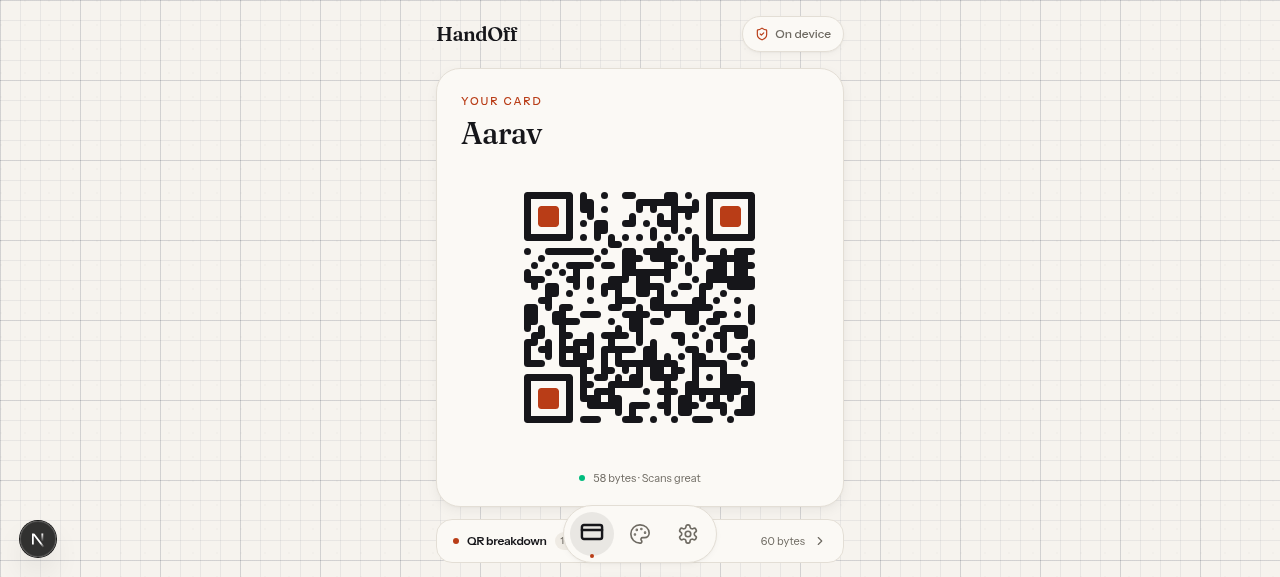
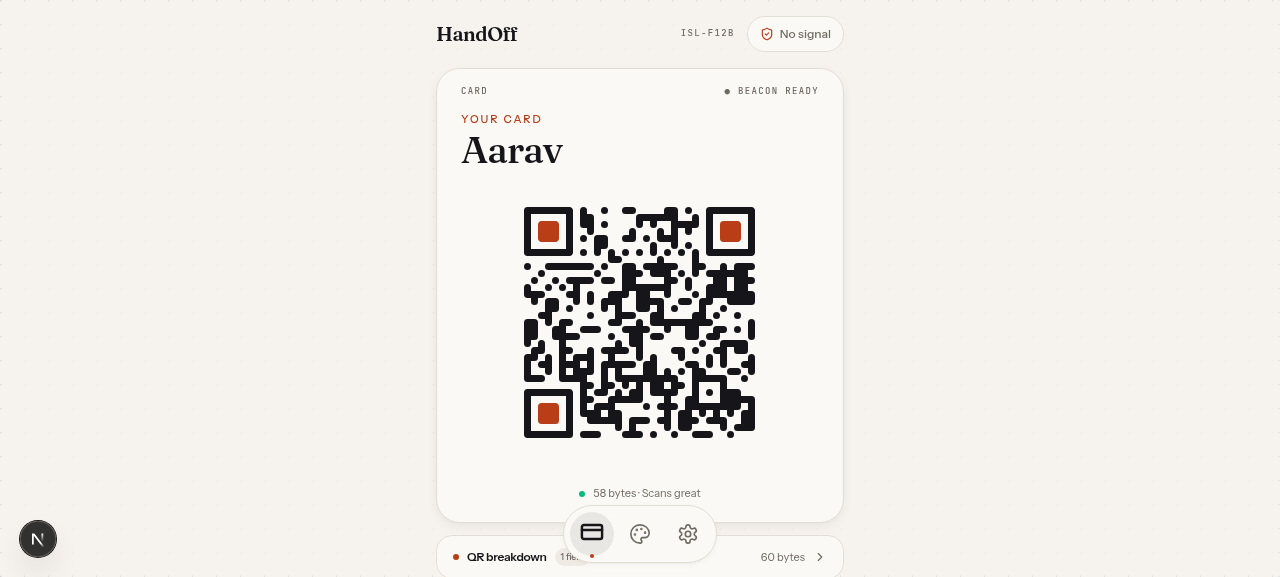
ca415e9d-9c57-4e68-a777-8a0a77867d95

diff --git a/src/components/handoff/screens/home.tsx b/src/components/handoff/screens/home.tsx
@@ -75,16 +75,20 @@ export function HomeScreen() {
 
   return (
     <div className="mx-auto max-w-md px-5 pt-safe">
-      {/* top bar */}
+      {/* top bar — chart header with island ID */}
       <div className="flex items-center justify-between py-4">
         <Wordmark className="text-xl" />
-        <button
-          onClick={() => navigate("privacy")}
-          className="glass-pill no-tap flex h-9 items-center gap-1.5 rounded-full border border-white/10 px-3 text-[12px] font-medium text-muted-foreground transition-colors hover:text-foreground"
-        >
-          <ShieldCheck className="h-3.5 w-3.5 text-clay" />
-          On device
-        </button>
+        <div className="flex items-center gap-3">
+          {/* Island ID — derived from card id hash, decorative */}
+          <span className="chart-label">ISL-{card.id.slice(0, 4).toUpperCase()}</span>
+          <button
+            onClick={() => navigate("privacy")}
+            className="no-tap flex h-9 items-center gap-1.5 rounded-full border border-border bg-card px-3 text-[12px] font-medium text-muted-foreground transition-colors hover:text-foreground"
+          >
+            <ShieldCheck className="h-3.5 w-3.5 text-clay" />
+            No signal
+          </button>
+        </div>
       </div>
 
       {/* QR changed banner */}
@@ -109,11 +113,16 @@ export function HomeScreen() {
         </div>
       )}
 
-      {/* hero card — solid-card (no backdrop-filter, protects the QR canvas) */}
+      {/* hero card — the Card island, solid, on the chart */}
       <Reveal delay={0.05}>
       <div className="solid-card relative overflow-hidden rounded-3xl">
-        {/* name plate */}
-        <div className="flex items-start justify-between gap-4 px-6 pt-6">
+        {/* chart label at top of island */}
+        <div className="flex items-center justify-between px-6 pt-4">
+          <span className="chart-label">CARD</span>
+          <span className="chart-label text-clay">● BEACON READY</span>
+        </div>
+        {/* name plate — oversized, bleeding toward the edge */}
+        <div className="flex items-start justify-between gap-4 px-6 pt-3">
           <div className="min-w-0 flex-1">
             {photo ? (
               <img
@@ -125,11 +134,12 @@ export function HomeScreen() {
             <p className="text-[11px] font-medium uppercase tracking-[0.18em] text-clay">
               {card.company || "Your card"}
             </p>
-            <h1 className="mt-1 font-display text-[1.9rem] font-medium leading-tight tracking-tight">
+            {/* Oversized name — bleeds off-screen on small phones, per Archipelago spec */}
+            <h1 className="mt-1 font-display text-[2.4rem] font-medium leading-[0.95] tracking-tight">
               {fullName || "Your name"}
             </h1>
             {card.jobTitle && (
-              <p className="mt-0.5 text-[14px] text-muted-foreground">
+              <p className="mt-1 text-[14px] text-muted-foreground">
                 {card.jobTitle}
               </p>
             )}

diff --git a/src/components/handoff/screens/onboarding.tsx b/src/components/handoff/screens/onboarding.tsx
@@ -85,7 +85,7 @@ export function Onboarding() {
   if (step === "welcome") {
     return (
       <div className="flex min-h-[100dvh] flex-col items-center px-6 pt-[max(env(safe-area-inset-top,0px),60px)] pb-10">
-        {/* Logo + name + tagline — centered like the Knot reference */}
+        {/* ARCHIPELAGO arrival: logo + headline + sub */}
         <motion.div
           initial={{ opacity: 0, y: 8 }}
           animate={{ opacity: 1, y: 0 }}
@@ -93,30 +93,19 @@ export function Onboarding() {
           className="flex flex-col items-center gap-3"
         >
           <HandOffMark className="h-16 w-16" />
-          <h1 className="font-display text-[2.2rem] font-semibold tracking-tight">
-            {BRAND.name}
+          <h1 className="mt-2 font-display text-[2rem] font-semibold leading-tight tracking-tight text-center">
+            One card. One scan.
+            <br />
+            Nothing leaves your phone.
           </h1>
           <p className="text-[14px] text-muted-foreground">
-            {BRAND.tagline}
+            No account. No signal needed.
           </p>
-        </motion.div>
-
-        {/* Privacy capsule — like the Knot reference: dark pill with shield icon */}
-        <motion.div
-          initial={{ opacity: 0, y: 8 }}
-          animate={{ opacity: 1, y: 0 }}
-          transition={{ duration: 0.5, delay: 0.2, ease: [0.22, 1, 0.36, 1] }}
-          className="mt-12 flex items-center gap-2.5 rounded-full border border-border bg-card px-4 py-2.5"
-        >
-          <ShieldCheck className="h-4 w-4 text-emerald-500" />
-          <span className="text-[13px] font-medium text-foreground">
-            No accounts. No servers. Your card never leaves your phone.
-          </span>
         </motion.div>
 
         <div className="flex-1" />
 
-        {/* CTA button — accent color, bottom right aligned like Knot */}
+        {/* CTA — vermilion beacon button */}
         <motion.div
           initial={{ opacity: 0, y: 8 }}
           animate={{ opacity: 1, y: 0 }}
@@ -127,11 +116,11 @@ export function Onboarding() {
             onClick={() => setStep("identity")}
             className="no-tap flex w-full items-center justify-center gap-2 rounded-full bg-clay py-4 text-[15px] font-medium text-white transition-transform active:scale-[0.98]"
           >
-            Create your card
+            Make my card
             <ChevronRight className="h-4 w-4" />
           </button>
           <p className="mt-3 text-center text-[11px] text-muted-foreground">
-            Takes 30 seconds. Everything stays on this device.
+            Anyone can scan this with their phone's camera. They don't need an app.
           </p>
         </motion.div>
       </div>

diff --git a/src/app/globals.css b/src/app/globals.css
@@ -312,19 +312,25 @@
     box-shadow: var(--elevation-subtle);
   }
 
-  /* ---- Chart graticule overlay ----
-     Faint navy grid lines + edge ticks, like a nautical chart.
-     Applied as a fixed background layer behind content. */
+  /* ---- Chart graticule: edge ticks only (not a full grid) ----
+     Per Archipelago spec: "ticks every 24px at the screen edges only, never a full grid"
+     Two contour layers: faint edge ticks + slightly stronger corner marks. */
   .graticule {
+    /* Edge ticks: repeating linear gradients at the screen edges only.
+       Top + bottom edges: vertical ticks. Left + right edges: horizontal ticks.
+       This creates the look of a chart's border graticule without a full grid. */
     background-image:
-      /* major grid lines (every 80px) */
-      linear-gradient(to right, var(--graticule-major) 1px, transparent 1px),
-      linear-gradient(to bottom, var(--graticule-major) 1px, transparent 1px),
-      /* minor grid lines (every 20px) */
+      /* top edge ticks */
       linear-gradient(to right, var(--graticule-color) 1px, transparent 1px),
+      /* bottom edge ticks */
+      linear-gradient(to right, var(--graticule-color) 1px, transparent 1px),
+      /* left edge ticks */
+      linear-gradient(to bottom, var(--graticule-color) 1px, transparent 1px),
+      /* right edge ticks */
       linear-gradient(to bottom, var(--graticule-color) 1px, transparent 1px);
-    background-size: 80px 80px, 80px 80px, 20px 20px, 20px 20px;
-    background-position: 0 0;
+    background-size: 24px 2px, 24px 2px, 2px 24px, 2px 24px;
+    background-position: 0 0, 0 100%, 0 0, 100% 0;
+    background-repeat: repeat-x, repeat-x, repeat-y, repeat-y;
   }
 
   /* Chart label — tiny spaced-caps mono, like "CHART 0427" */

diff --git a/src/components/handoff/screens/studio.tsx b/src/components/handoff/screens/studio.tsx
@@ -69,7 +69,7 @@ export function StudioScreen() {
   return (
     <div className="mx-auto max-w-md">
       <ScreenHeader
-        title="Style studio"
+        title="Chartroom"
         onBack={() => navigate("home")}
         helpGuideId="style-qr"
         action={
@@ -121,11 +121,11 @@ export function StudioScreen() {
               <QrPreview card={card} style={style} size={200} photoDataUrl={photo?.full} />
             </div>
           </div>
-          {/* scan indicator */}
-          <div className="mt-2 flex items-center justify-center gap-1.5">
-            <ScanLine className={cn("h-3.5 w-3.5", scanOk ? "text-emerald-500" : "text-amber-500")} />
-            <span className={cn("text-[11px]", scanOk ? "text-emerald-600 dark:text-emerald-400" : "text-amber-600 dark:text-amber-400")}>
-              {scanMsg || "Checking…"}
+          {/* Bearing indicator — Archipelago nautical chart language */}
+          <div className="mt-2 flex items-center justify-center gap-2">
+            <span className={cn("h-2 w-2 rounded-full", scanOk ? "bg-emerald-500" : "bg-amber-500")} />
+            <span className="chart-label">
+              {scanOk ? "Bearing: True — scans well" : scanMsg ? `Bearing: Drifting — ${scanMsg}` : "Bearing: Checking…"}
             </span>
           </div>
         </div>

diff --git a/src/components/handoff/screens/settings.tsx b/src/components/handoff/screens/settings.tsx
@@ -50,7 +50,7 @@ export function SettingsScreen() {
         className="px-5 pt-[max(env(safe-area-inset-top,0px),44px)] pb-2"
       >
         <h1 className="font-sans text-[34px] font-bold leading-[1.1] tracking-[-0.025em] text-foreground">
-          Settings
+          Harbour
         </h1>
       </motion.div>
 
@@ -239,9 +239,9 @@ function ThemeRow({
   onChange: (v: "light" | "dark" | "system") => void;
 }) {
   const opts: { id: "light" | "dark" | "system"; label: string; icon: typeof Sun }[] = [
-    { id: "light", label: "Light", icon: Sun },
-    { id: "dark", label: "Dark", icon: Moon },
-    { id: "system", label: "Auto", icon: Monitor },
+    { id: "light", label: "Day chart", icon: Sun },
+    { id: "dark", label: "Night chart", icon: Moon },
+    { id: "system", label: "Follow phone", icon: Monitor },
   ];
   return (
     <div className="flex items-center justify-between px-4 py-3.5">
